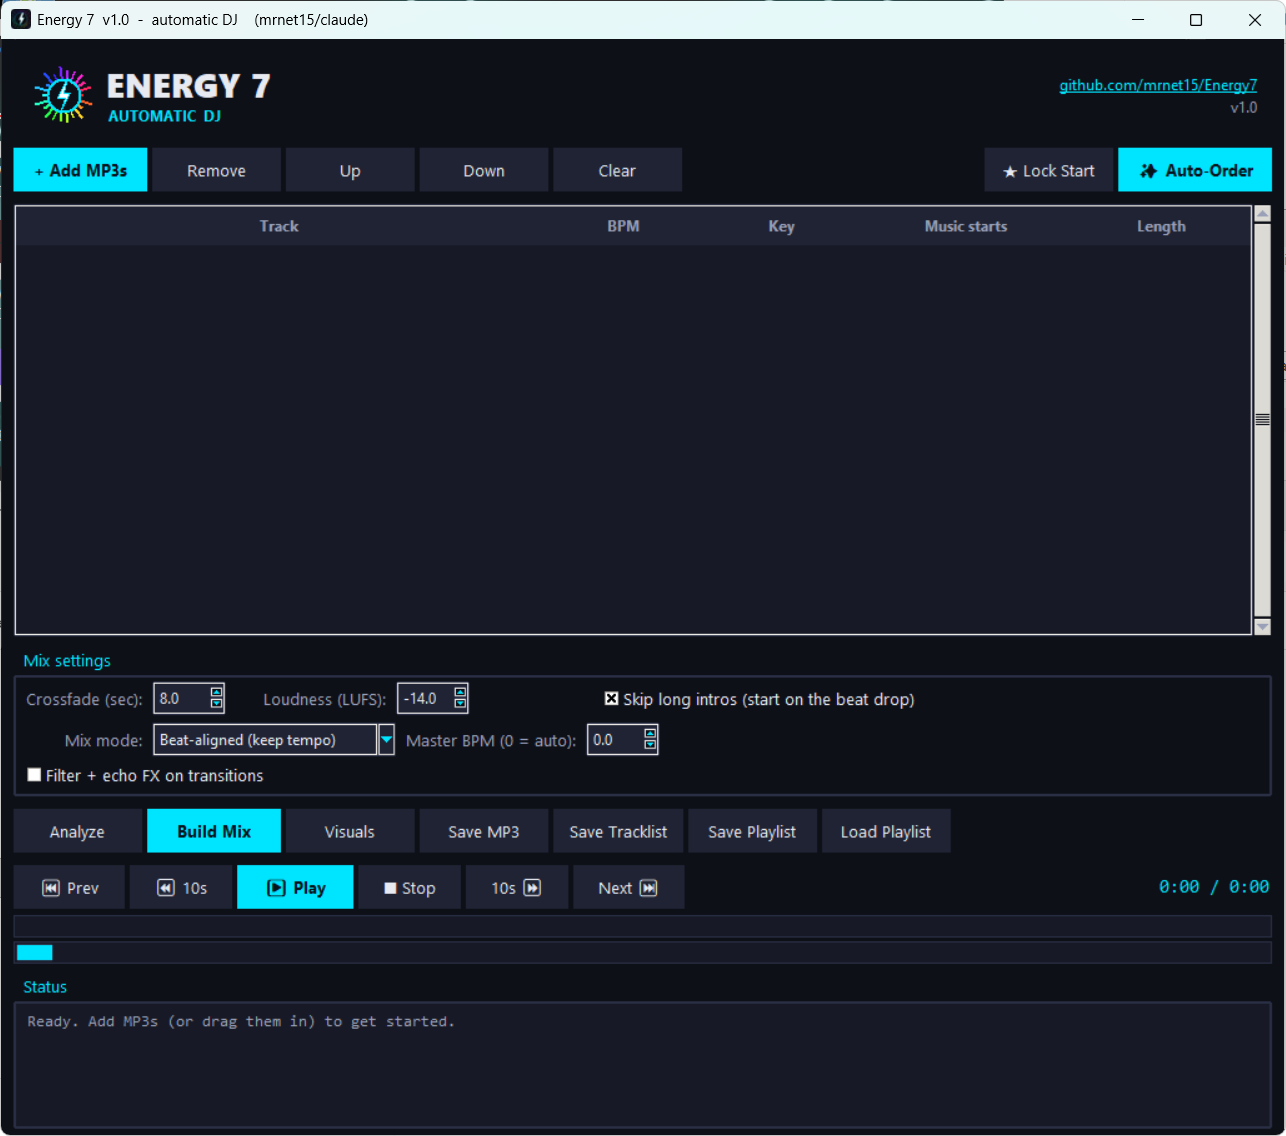
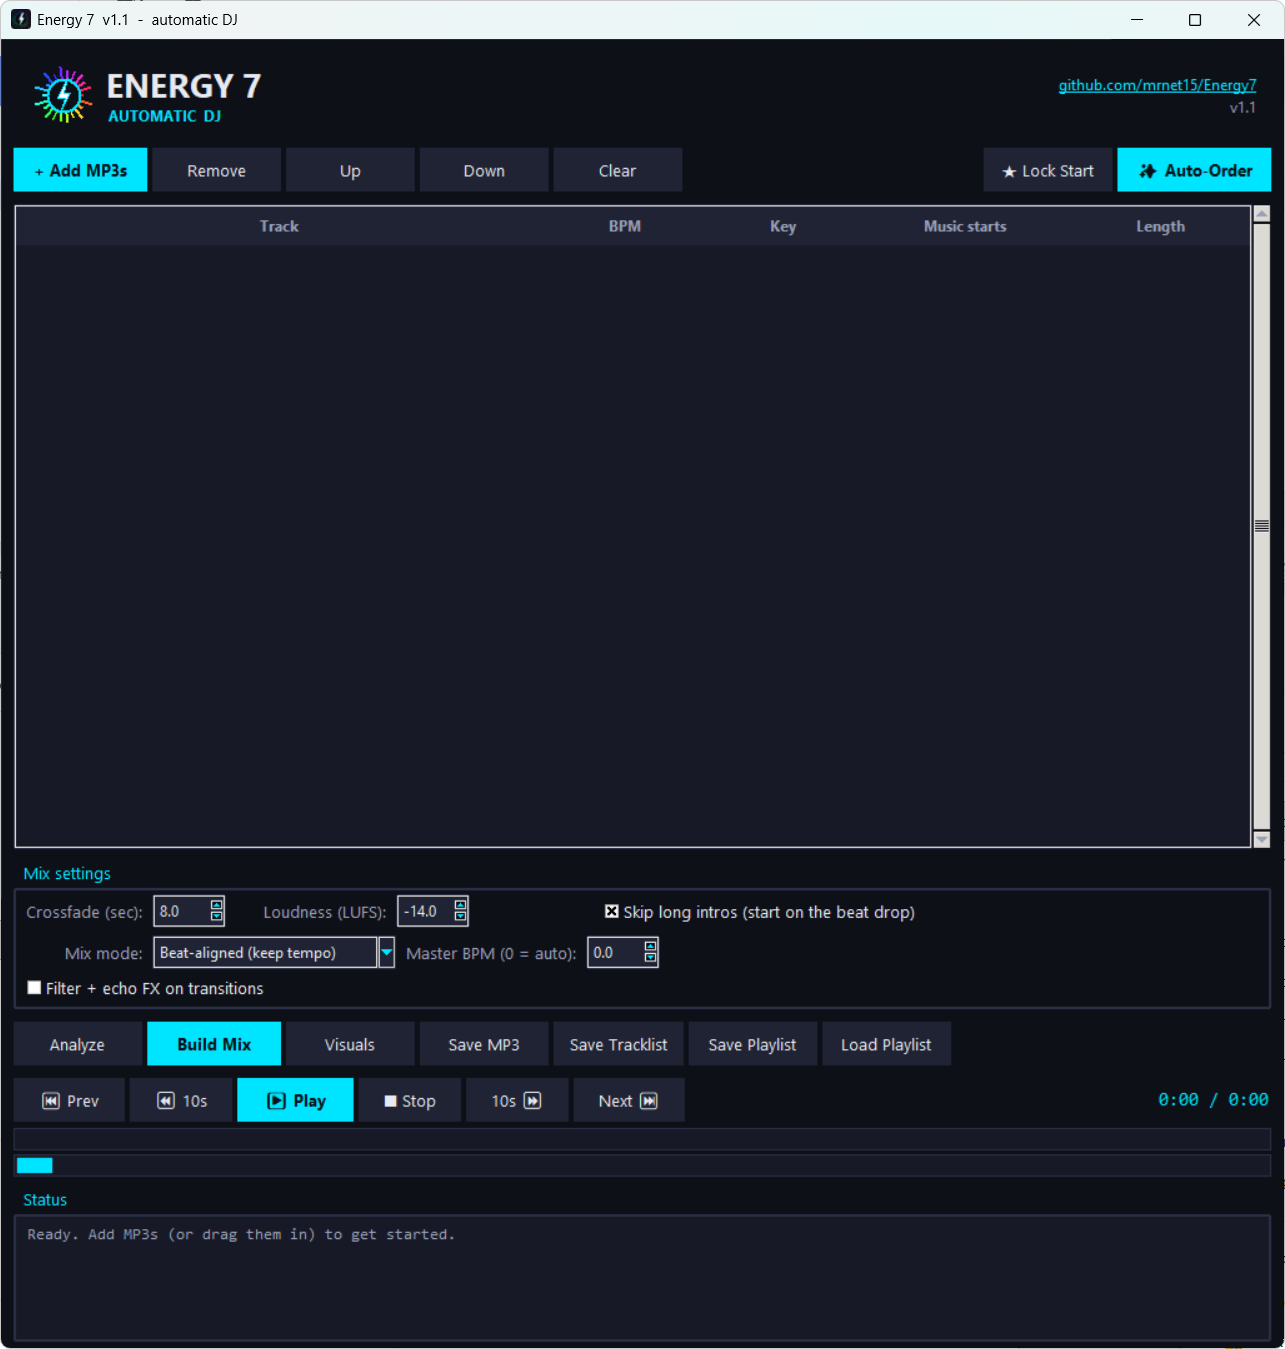
v1.1

Changed region(s): [[0.0, 0.0, 1.0, 1.0]]

diff --git a/energy7.py b/energy7.py
@@ -70,8 +70,16 @@ except Exception:
     butter = filtfilt = None
 
 
-__version__ = "1.0"
+__version__ = "1.1"
 REPO_URL = "https://github.com/mrnet15/Energy7"
+
+# Native-looking fonts per platform.
+if sys.platform == "darwin":
+    UI_FAMILY, MONO_FAMILY = "Helvetica Neue", "Menlo"
+elif sys.platform.startswith("win"):
+    UI_FAMILY, MONO_FAMILY = "Segoe UI", "Consolas"
+else:
+    UI_FAMILY, MONO_FAMILY = "DejaVu Sans", "DejaVu Sans Mono"
 
 SR = 44100                     # working sample rate
 CHANNELS = 2                   # stereo
@@ -1046,7 +1054,7 @@ class Visualizer(tk.Toplevel):
                               width=2)
             c.create_text(cx, cy + 130, fill="#666",
                           text="Press Play in the main window",
-                          font=("Segoe UI", 15))
+                          font=(UI_FAMILY, 15))
             return
 
         bands, wav = got
@@ -1262,7 +1270,7 @@ _BaseTk = TkinterDnD.Tk if TkinterDnD is not None else tk.Tk
 class App(_BaseTk):
     def __init__(self):
         super().__init__()
-        self.title("Energy 7  v%s  -  automatic DJ    (mrnet15/claude)" % __version__)
+        self.title("Energy 7  v%s  -  automatic DJ" % __version__)
         self.geometry("880x680")
         self.minsize(760, 600)
         self.configure(bg=BG)
@@ -1315,14 +1323,14 @@ class App(_BaseTk):
             style.theme_use("clam")
         except Exception:
             pass
-        base_font = ("Segoe UI", 10)
+        base_font = (UI_FAMILY, 10)
         style.configure(".", background=BG, foreground=FG, fieldbackground=PANEL,
                         bordercolor=BORDER, font=base_font)
         style.configure("TFrame", background=BG)
         style.configure("TLabel", background=BG, foreground=FG)
         style.configure("Muted.TLabel", background=BG, foreground=MUTED)
         style.configure("Time.TLabel", background=BG, foreground=ACCENT,
-                        font=("Consolas", 11))
+                        font=(MONO_FAMILY, 11))
         style.configure("TLabelframe", background=BG, bordercolor=BORDER,
                         relief="solid")
         style.configure("TLabelframe.Label", background=BG, foreground=ACCENT)
@@ -1335,7 +1343,7 @@ class App(_BaseTk):
                   foreground=[("disabled", MUTED)])
 
         style.configure("Accent.TButton", background=ACCENT, foreground=ONACCENT,
-                        relief="flat", padding=(12, 6), font=("Segoe UI", 10, "bold"))
+                        relief="flat", padding=(12, 6), font=(UI_FAMILY, 10, "bold"))
         style.map("Accent.TButton",
                   background=[("pressed", "#00b8cc"), ("active", "#33ecff")])
 
@@ -1355,7 +1363,7 @@ class App(_BaseTk):
                         foreground=FG, bordercolor=BORDER, rowheight=26,
                         borderwidth=0)
         style.configure("Treeview.Heading", background=PANEL2, foreground=MUTED,
-                        relief="flat", padding=6, font=("Segoe UI", 9, "bold"))
+                        relief="flat", padding=6, font=(UI_FAMILY, 9, "bold"))
         style.map("Treeview.Heading", background=[("active", BORDER)])
         style.map("Treeview", background=[("selected", ACCENT)],
                   foreground=[("selected", ONACCENT)])
@@ -1414,14 +1422,14 @@ class App(_BaseTk):
 
         # Wordmark + subtitle.
         c.create_text(74, cy - 10, anchor="w", text="ENERGY 7",
-                      fill=FG, font=("Segoe UI Black", 20, "bold"))
+                      fill=FG, font=(UI_FAMILY, 20, "bold"))
         c.create_text(76, cy + 16, anchor="w", text="AUTOMATIC  DJ",
-                      fill=ACCENT, font=("Segoe UI", 9, "bold"))
+                      fill=ACCENT, font=(UI_FAMILY, 9, "bold"))
         c.create_text(w - 12, cy - 9, anchor="e", text="github.com/mrnet15/Energy7",
                       tags=("repo",), fill=ACCENT,
-                      font=("Segoe UI", 9, "underline"))
+                      font=(UI_FAMILY, 9, "underline"))
         c.create_text(w - 12, cy + 9, anchor="e", text="v" + __version__,
-                      fill=MUTED, font=("Segoe UI", 9))
+                      fill=MUTED, font=(UI_FAMILY, 9))
 
     # ----- UI construction ------------------------------------------------- #
     def _build_ui(self):
@@ -1555,7 +1563,7 @@ class App(_BaseTk):
         logf.pack(fill="both", expand=False, padx=10, pady=5)
         self.log = tk.Text(logf, height=6, wrap="word", state="disabled",
                            bg=PANEL, fg=MUTED, insertbackground=FG, relief="flat",
-                           highlightthickness=0, font=("Consolas", 9), padx=8, pady=6)
+                           highlightthickness=0, font=(MONO_FAMILY, 9), padx=8, pady=6)
         self.log.pack(fill="both", expand=True)
 
         self._update_play_pos()

diff --git a/README.md b/README.md
@@ -4,7 +4,7 @@
 
 <h1 align="center">Energy 7</h1>
 
-<p align="center">A simple automatic DJ for Windows — beat-mix your MP3s into one continuous set.</p>
+<p align="center">A simple automatic DJ for Windows, macOS &amp; Linux — beat-mix your MP3s into one continuous set.</p>
 
 ---
 
@@ -58,6 +58,22 @@ Prefer the command line?
 pip install -r requirements.txt
 python energy7.py
 ```
+
+### macOS / Linux
+
+Energy 7 runs on macOS and Linux too.
+
+1. Make sure **Python 3.9+** is installed.
+2. Get ffmpeg: double-click **`get_ffmpeg.command`** (or `brew install ffmpeg`
+   on macOS / `sudo apt install ffmpeg` on Linux).
+3. Double-click **`run.command`** (macOS) — or from a terminal: `bash run.command`.
+   The first run creates a local environment and installs the packages.
+
+The first time you double-click a `.command` file macOS may block it; either
+right-click → **Open**, or run `chmod +x *.command` once in the folder.
+
+To build a standalone **`Energy7.app`**, run **`build_app_mac.command`** on a Mac
+(the result is in `dist/`). Apps can only be built on the OS they target.
 
 ## Building a standalone .exe (optional)
 

diff --git a/CHANGELOG.md b/CHANGELOG.md
@@ -1,5 +1,13 @@
 # Changelog
 
+## v1.1 — cross-platform
+
+- **Runs on macOS and Linux** as well as Windows, from the same code.
+- macOS/Linux launcher (`run.command`), ffmpeg helper (`get_ffmpeg.command`),
+  and a `.app` build script (`build_app_mac.command`) with a `.icns` icon.
+- Native fonts per platform (Segoe UI / Helvetica Neue / DejaVu).
+- Clickable `github.com/mrnet15/Energy7` link in the header.
+
 ## v1.0 — first release
 
 Energy 7's first stable release: a complete automatic-DJ app for Windows.